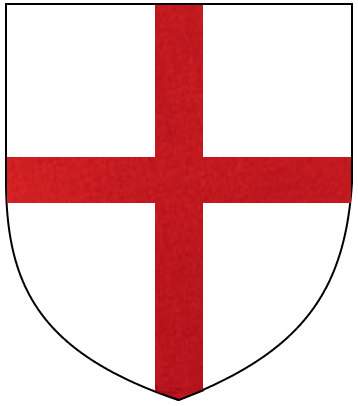
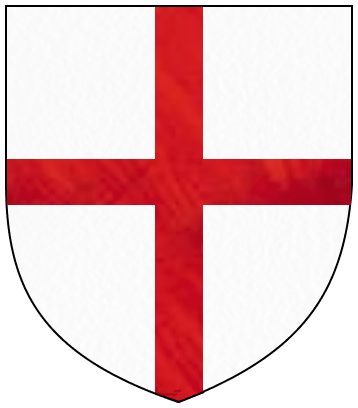
new coats of arms

diff --git a/app/assets/stylesheets/components/_navbar.scss b/app/assets/stylesheets/components/_navbar.scss
@@ -3,7 +3,7 @@
     list-style-type: none;
     margin: 0 0 0 0px;
     padding: 0;
-    padding-top: 5px;
+    padding-top: 2px;
     width: 180px;
     min-height: 100vh;
     background-color: #eeeeee;
@@ -19,13 +19,14 @@
   text-decoration: none;
   list-style-type: none;
   padding-left: 20px;
+  margin-bottom: 0px;
  // margin-top: 10px;
 }
 
 .navbar a {
     display: block;
     //color: $light-gray;
-    padding: 1px 0px;
+    padding: 0px 1px;
     text-decoration: none;
     color: #7d7d7d;
 }
@@ -37,7 +38,7 @@
 }
 
 .region {
-  margin: 10px 5px 20px;
+  margin: 10px 5px 14px;
   //text-transform: uppercase;
   font-family: 'Cinzel', cursive;
   //font-weight: bolder;

diff --git a/app/assets/stylesheets/components/_heraldic.scss b/app/assets/stylesheets/components/_heraldic.scss
@@ -10,7 +10,7 @@
 .heraldic {
 & > img {
 width: 60px;
-filter: grayscale(20%);
+//filter: grayscale(20%);
     //   width: 10px;
     //   height: auto;
   }
